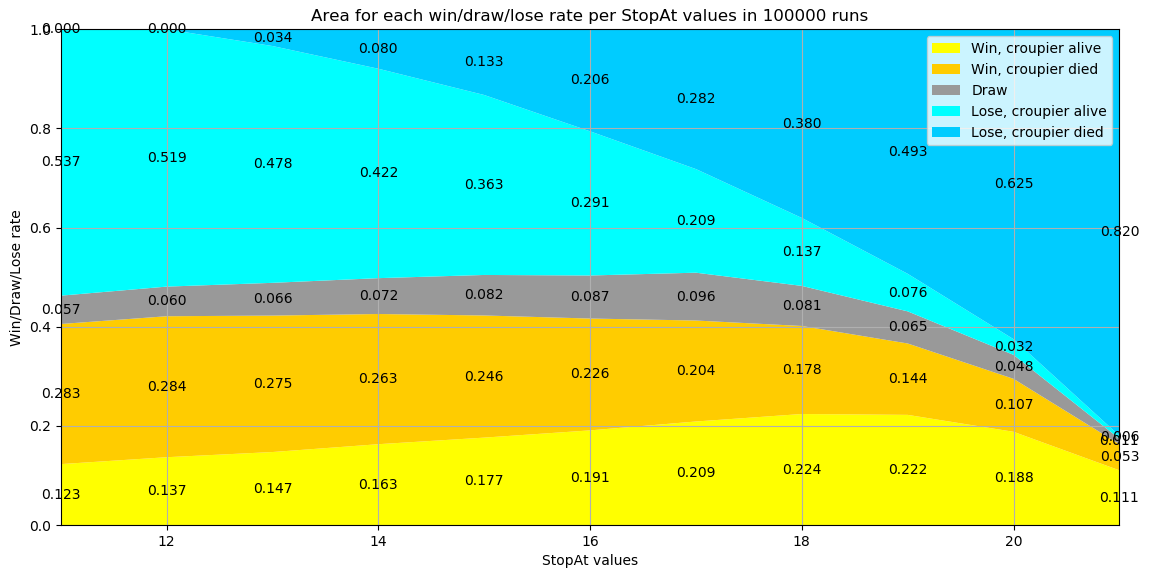
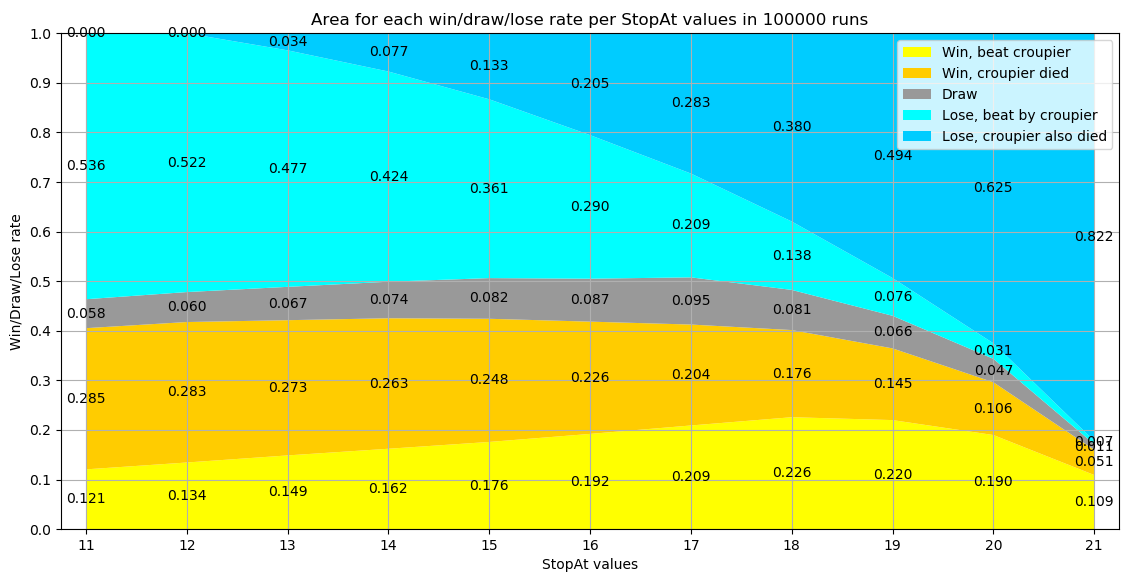
Corrections

diff --git a/presentation/presentation.tex b/presentation/presentation.tex
@@ -52,12 +52,12 @@
 \begin{frame}
     \frametitle{Catégorisation}
     \begin{itemize}
-        \item Mouvements (coups) séquentiels
         \item Partie itératifs
+        \item Mouvements (coups) séquentiels
         \item Avec somme nulle
-        \item Avec information partielle
-        \item Aléatoire
         \item Compétitif
+        \item Aléatoire
+        \item Avec information partielle
     \end{itemize}
 \end{frame}
 
@@ -65,49 +65,64 @@
 
 \begin{frame}
     \frametitle{Tests empiriques: Chance du joueur avec stratégie basique}
-    \begin{figure}[H]
-        \begin{center}
-            \includegraphics[width=1\textwidth]{empirical_graph1}
-        \end{center}
-    \end{figure}
+    \begin{columns}
+        \column{\dimexpr\paperwidth-1pt}
+        \begin{figure}[H]
+            \begin{center}
+                \includegraphics[width=1\textwidth]{empirical_graph1}
+            \end{center}
+        \end{figure}
+    \end{columns}
 \end{frame}
 
 \begin{frame}
     \frametitle{Tests empiriques: Chance du joueur par main initial du croupier}
-    \begin{figure}[H]
-        \begin{center}
-            \includegraphics[width=1\textwidth]{empirical_graph2}
-        \end{center}
-    \end{figure}
+    \begin{columns}
+        \column{\dimexpr\paperwidth-1pt}
+        \begin{figure}[H]
+            \begin{center}
+                \includegraphics[width=1\textwidth]{empirical_graph2}
+            \end{center}
+        \end{figure}
+    \end{columns}
 \end{frame}
 
 \begin{frame}
     \frametitle{Tests empiriques: Comparaison de stratégies}
-    \begin{figure}[H]
-        \begin{center}
-            \includegraphics[width=1\textwidth]{empirical_graph3}
-        \end{center}
-    \end{figure}
+    \begin{columns}
+        \column{\dimexpr\paperwidth-1pt}
+        \begin{figure}[H]
+            \begin{center}
+                \includegraphics[width=1\textwidth]{empirical_graph3}
+            \end{center}
+        \end{figure}
+    \end{columns}
 \end{frame}
 
 \section{Théorie}
 
 \begin{frame}
     \frametitle{Théorie: Chance du croupier}
-    \begin{figure}[H]
-        \begin{center}
-            \includegraphics[width=0.7\textwidth]{theoretical_croupier}
-        \end{center}
-    \end{figure}
+    \begin{columns}
+        \column{\dimexpr\paperwidth-1pt}
+        \begin{figure}[H]
+            \begin{center}
+                \includegraphics[width=1\textwidth]{theoretical_croupier_h}
+            \end{center}
+        \end{figure}
+    \end{columns}
 \end{frame}
 
 \begin{frame}
     \frametitle{Théorie: Chance du joueur}
-    \begin{figure}[H]
-        \begin{center}
-            \includegraphics[width=1\textwidth]{theoretical_graph1}
-        \end{center}
-    \end{figure}
+    \begin{columns}
+        \column{\dimexpr\paperwidth-1pt}
+        \begin{figure}[H]
+            \begin{center}
+                \includegraphics[width=1\textwidth]{theoretical_graph1}
+            \end{center}
+        \end{figure}
+    \end{columns}
 \end{frame}
 
 \end{document}

diff --git a/src/simulator/app.py b/src/simulator/app.py
@@ -82,8 +82,10 @@ ax.grid()
 ax.set_title("Area for each win/draw/lose rate per StopAt values in " + str(g1_runs) + " runs")
 ax.set_xlabel("StopAt values")
 ax.set_ylabel("Win/Draw/Lose rate")
-ax.margins(0, 0)
-ax.legend(["Win, croupier alive", "Win, croupier died", "Draw", "Lose, croupier alive", "Lose, croupier died"])
+ax.margins(0.025, 0)
+ax.legend(["Win, beat croupier", "Win, croupier died", "Draw", "Lose, beat by croupier", "Lose, croupier also died"])
+ax.set_xticks(STOP_AT_VALUES)
+ax.set_yticks([x / 10.0 for x in range(0, 11)])
 
 # Graph 2:
 fig = plt.figure()
@@ -93,7 +95,7 @@ for s_i, w in enumerate(g2_sum_win):
     for x, y in zip(CARDS, w):
         ax.text(x - 0.4 * s_i, y, f'{y:.3f}', color=TEXTCOLORS[s_i])
 ax.grid()
-ax.set_title("Win/Draw rate per initial card of the croupier for best strategies in " + str(g2_runs) + " runs")
+ax.set_title("Win rate per initial card of the croupier for best strategies in " + str(g2_runs) + " runs")
 ax.set_xlabel("Croupier's initial card")
 ax.set_ylabel("Win rate")
 ax.legend()

diff --git a/src/decisionTree/hand_odds.py b/src/decisionTree/hand_odds.py
@@ -33,7 +33,7 @@ with open('hand_odds.csv', 'r') as csvfile:
 fig = plt.figure()
 ax = fig.add_subplot(111)
 ax.stackplot(range(len(cards)), list(map(list, zip(*rates))), colors=colors)
-ax.plot(range(len(cards)), [range(len(points) + 1) for _ in range(len(cards))], '-', linewidth=1, c="black")
+ax.plot(range(len(cards)), [range(len(points) + 1) for _ in range(len(cards))], '-', linewidth=3, c="white")
 for x, w in zip(range(len(cards) + 1), rates):
     y_sum = 0
     for y in w:

diff --git a/src/decisionTree/hand_odds.md b/src/decisionTree/hand_odds.md
@@ -2,9 +2,14 @@
 | Hand |    -     |    2     |    3     |    4     |    5     |    6     |    7     |    8     |    9     |    10    |    11    |
 +------+----------+----------+----------+----------+----------+----------+----------+----------+----------+----------+----------+
 | <=16 | 28/ 0/72 | 35/ 0/65 | 38/ 0/62 | 40/ 0/60 | 43/ 0/57 | 42/ 0/58 | 26/ 0/74 | 24/ 0/76 | 23/ 0/77 | 21/ 0/79 | 12/ 0/88 |
++------+----------+----------+----------+----------+----------+----------+----------+----------+----------+----------+----------+
 |  17  | 28/15/57 | 35/14/51 | 38/13/49 | 40/13/47 | 43/12/45 | 42/17/41 | 26/37/37 | 24/13/63 | 23/12/64 | 21/11/67 | 12/13/76 |
++------+----------+----------+----------+----------+----------+----------+----------+----------+----------+----------+----------+
 |  18  | 43/14/43 | 49/13/38 | 51/13/36 | 53/11/35 | 55/12/33 | 59/11/31 | 63/14/23 | 37/36/27 | 36/10/54 | 33/11/56 | 24/13/63 |
++------+----------+----------+----------+----------+----------+----------+----------+----------+----------+----------+----------+
 |  19  | 57/13/30 | 62/13/24 | 64/12/24 | 65/12/23 | 67/12/21 | 69/11/20 | 77/ 8/15 | 73/13/14 | 46/36/18 | 44/11/44 | 37/13/50 |
++------+----------+----------+----------+----------+----------+----------+----------+----------+----------+----------+----------+
 |  20  | 70/18/12 | 76/12/12 | 76/12/12 | 77/12/12 | 79/10/11 | 80/10/10 | 85/ 8/ 7 | 86/ 7/ 7 | 82/12/ 6 | 56/33/11 | 50/13/37 |
++------+----------+----------+----------+----------+----------+----------+----------+----------+----------+----------+----------+
 |  21  | 88/12/-0 | 88/12/-0 | 88/12/-0 | 88/12/ 0 | 89/11/-0 | 90/10/ 0 | 93/ 7/ 0 | 93/ 7/ 0 | 94/ 6/-0 | 89/11/-0 | 63/37/ 0 |
 +------+----------+----------+----------+----------+----------+----------+----------+----------+----------+----------+----------+
